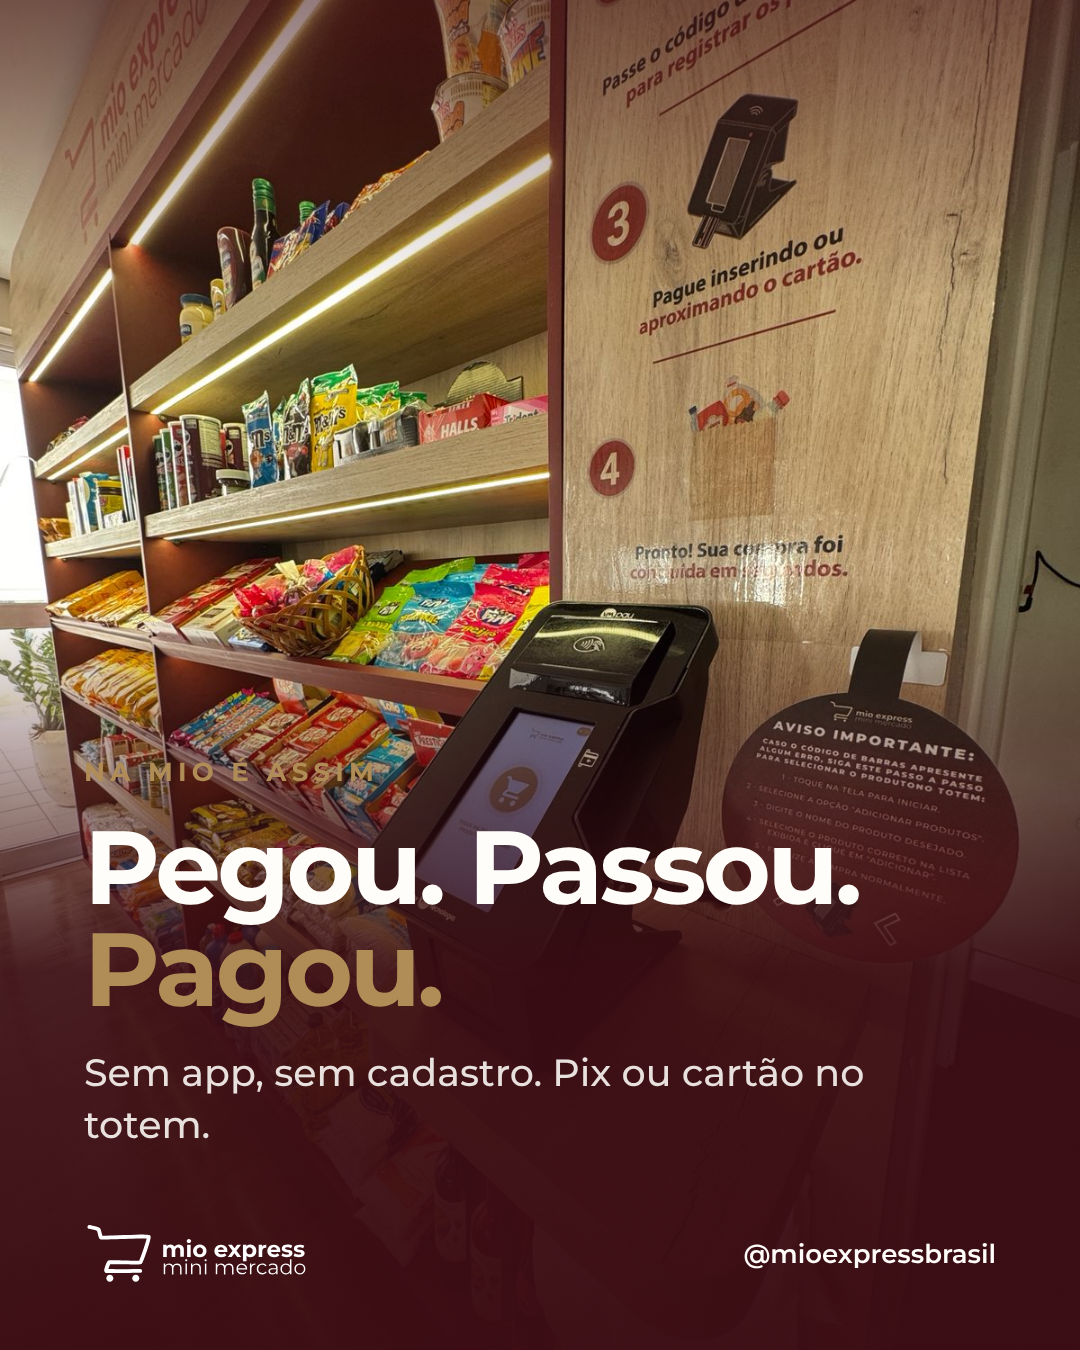
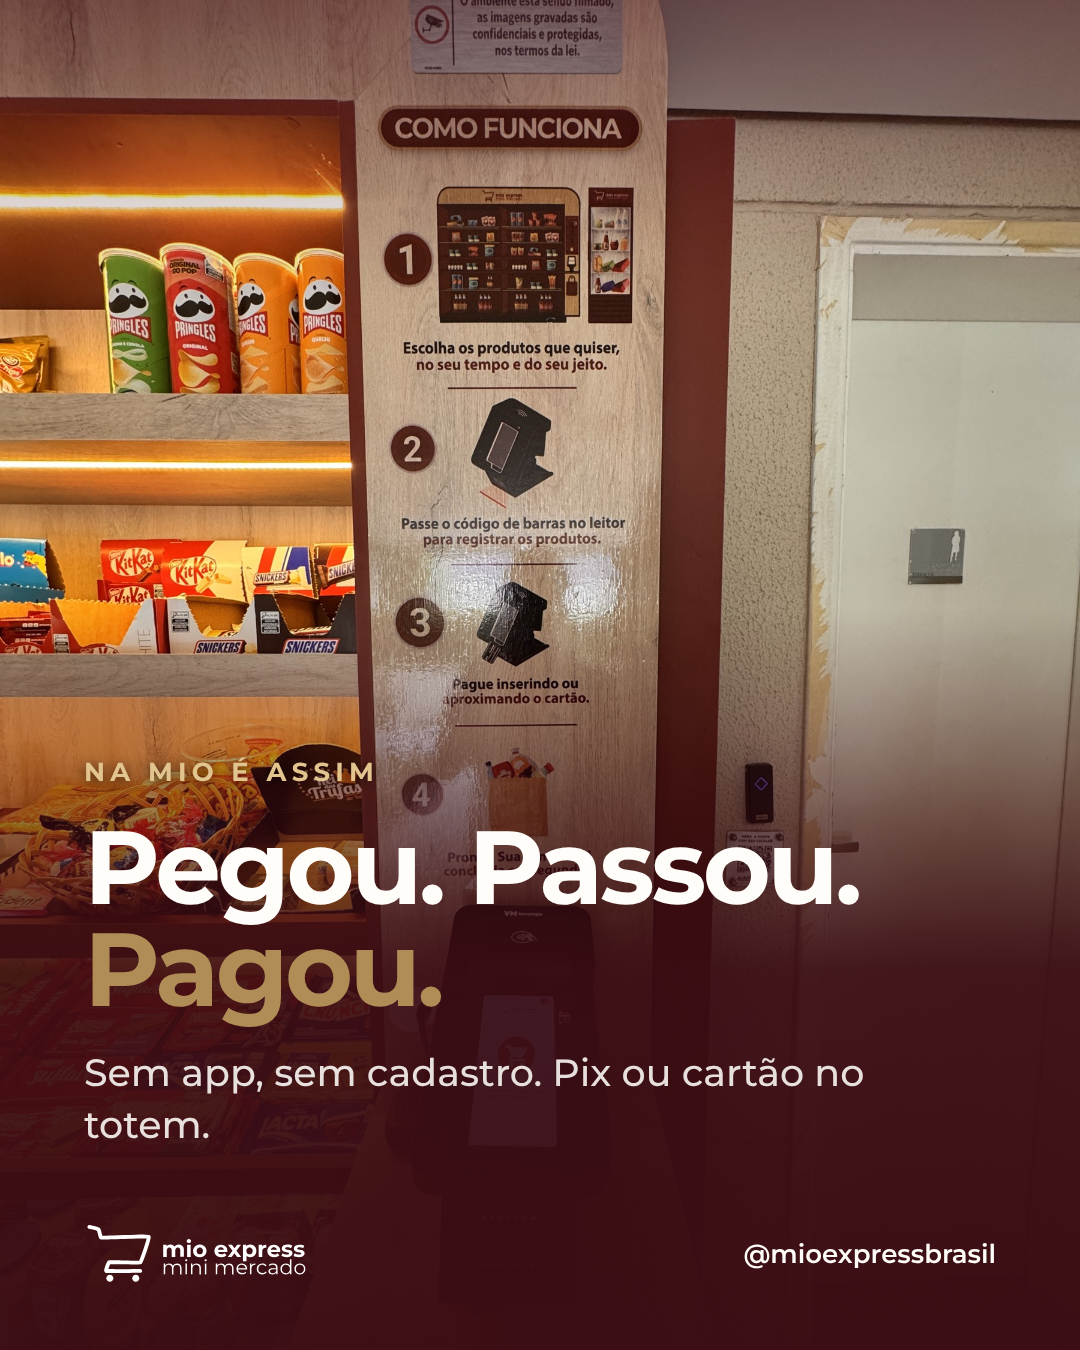
Marketing: concurso churrasco (datas ate 02/11) e testes com fotos reais
Claude-Session: https://claude.ai/code/session_01CwP1brNtxaKT1mUQXiiAjA

diff --git a/marketing/posts/10-teste-foto-real/.slide.html b/marketing/posts/10-teste-foto-real/.slide.html
@@ -9,7 +9,7 @@ body { width: 1080px; height: 1350px; font-family: M, sans-serif; color: #2b1d1a
 .foto.escura::after { background: linear-gradient(180deg, rgba(43,29,26,0) 15%, rgba(43,29,26,.7) 45%, rgba(43,29,26,.95) 100%); }
 .foto.topo::after { background: linear-gradient(180deg, rgba(43,29,26,.75) 0%, rgba(43,29,26,.1) 45%, rgba(43,29,26,.85) 100%); }
 .z { position: relative; z-index: 1; }
-.eyebrow { font-size: 26px; font-weight: 700; letter-spacing: .2em; text-transform: uppercase; color: #b08d57; }
+.eyebrow { font-size: 26px; font-weight: 700; letter-spacing: .2em; text-transform: uppercase; color: #b08d57; text-shadow: 0 2px 12px rgba(0,0,0,.6); }
 .pill { display: inline-block; align-self: flex-start; padding: 12px 24px; border-radius: 99px; background: #7a1f2b; color: #fffdf9; font-size: 24px; font-weight: 700; letter-spacing: .16em; text-transform: uppercase; }
 h1 { font-size: 104px; line-height: .98; font-weight: 700; letter-spacing: -.035em; }
 h2 { font-size: 76px; line-height: 1.02; font-weight: 700; letter-spacing: -.03em; }
@@ -36,8 +36,9 @@ p.lead { font-size: 38px; line-height: 1.35; font-weight: 500; opacity: .88; }
 .tag { position: absolute; top: 84px; right: 84px; z-index: 2; font-size: 24px; font-weight: 700; letter-spacing: .12em; opacity: .8; }
 .ft { position: absolute; inset: 0; background-size: cover; }
 .ft::after { content: ""; position: absolute; inset: 0; background: linear-gradient(180deg, rgba(59,13,20,.97) 0%, rgba(59,13,20,.9) 30%, rgba(59,13,20,.25) 52%, rgba(59,13,20,0) 66%, rgba(59,13,20,.75) 100%); }
+.ft2 { position: absolute; left: 0; right: 0; bottom: 0; height: 820px; background-size: cover; }
+.ft2::after { content: ""; position: absolute; inset: 0; background: linear-gradient(180deg, #3b0d14 0%, rgba(59,13,20,0) 28%, rgba(59,13,20,0) 70%, rgba(59,13,20,.85) 100%); }
 .ft.baixo::after { background: linear-gradient(180deg, rgba(59,13,20,.55) 0%, rgba(59,13,20,0) 22%, rgba(59,13,20,0) 45%, rgba(59,13,20,.92) 72%, rgba(59,13,20,.98) 100%); }
-</style><body><div class="s" style="color:#fffdf9"><div class="ft baixo" style="background-image:url(file:///home/user/mioexpress-site/assets/source/fotos/loja2-totem.jpg);background-position:50% 35%"></div>
-        <div class="z mt-a" style="margin-bottom:110px"><p class="eyebrow">Na Mio é assim</p>
-        <h1 class="mt1">Pegou. Passou.<br><em>Pagou.</em></h1>
-        <p class="lead mt1">Sem app, sem cadastro. Pix ou cartão no totem.</p></div><div class="rodape"><img src="file:///home/user/mioexpress-site/public/brand/logo-white.svg"><span>@mioexpressbrasil</span></div></div></body>
+</style><body><div class="s" style="color:#fffdf9"><div class="ft baixo" style="background-image:url(file:///home/user/mioexpress-site/assets/source/fotos/loja4-ambiente.jpg);background-position:20% 70%"></div>
+        <div class="z mt-a" style="margin-bottom:110px"><p class="eyebrow" style="color:#e2c48f">Calor? A gente resolve</p>
+        <h1 class="mt1">Picolé <em>Los Los</em> a poucos passos de casa.</h1></div><div class="rodape"><img src="file:///home/user/mioexpress-site/public/brand/logo-white.svg"><span>@mioexpressbrasil</span></div></div></body>

diff --git a/marketing/posts/12-concurso-churrasco/patch.py b/marketing/posts/12-concurso-churrasco/patch.py
@@ -1,0 +1,49 @@
+from PIL import Image, ImageDraw, ImageFont
+F='/usr/share/fonts/opentype/inter/Inter-'
+def font(w,s): return ImageFont.truetype(F+w+'.otf',s)
+def fill_interp(im,box,pad=3):
+    x0,y0,x1,y1=box;px=im.load()
+    for x in range(x0,x1):
+        a=px[x,y0-pad];b=px[x,y1+pad]
+        for y in range(y0,y1):
+            t=(y-y0)/(y1-y0);px[x,y]=tuple(round(a[i]+(b[i]-a[i])*t) for i in range(3))
+def brightest(im,box):
+    r=im.crop(box);return max(r.getdata(),key=sum)
+def darkest(im,box):
+    r=im.crop(box);return min(r.getdata(),key=sum)
+def runs(d,x,y,parts,center=False,W=None):
+    # parts: [(text,font,color)]
+    tot=sum(d.textlength(t,font=f) for t,f,c in parts)
+    if center: x=(W-tot)/2
+    for t,f,c in parts:
+        d.text((x,y),t,font=f,fill=c);x+=d.textlength(t,font=f)
+
+# FEED
+im=Image.open('orig-feed.webp').convert('RGB');d=ImageDraw.Draw(im)
+txt=brightest(im,(775,592,1000,660))
+fill_interp(im,(772,590,1004,664))
+d.text((774,596),'Comente',font=font('Bold',24),fill=txt)
+runs(d,774,596,[('Comente',font('Bold',24),txt),(' por que',font('Regular',24),txt)])
+d.text((774,624),'você merece',font=font('Regular',24),fill=txt)
+dk=darkest(im,(695,1090,1005,1150));cream=im.getpixel((690,1100))
+d.rectangle((692,1088,1006,1152),fill=cream)
+d.text((698,1092),'Até 02/11, às 23h59',font=font('Bold',24),fill=dk)
+d.text((698,1126),'Resultado em 03/11 aqui no perfil',font=font('Regular',19),fill=dk)
+ft=brightest(im,(64,1258,1010,1305))
+fill_interp(im,(60,1254,1022,1308))
+f=font('Regular',18)
+d.text((64,1258),'Válido para moradores de São José dos Campos e Jacareí. Imagem ilustrativa. Vencedor escolhido',font=f,fill=ft)
+d.text((64,1284),'pela criatividade da resposta. Esta ação não é patrocinada, endossada ou administrada pelo Instagram.',font=f,fill=ft)
+im.save('01.png')
+
+# STORY
+im=Image.open('orig-story.webp').convert('RGB');d=ImageDraw.Draw(im)
+ft=brightest(im,(230,1595,850,1670))
+fill_interp(im,(150,1592,930,1672))
+f=font('Regular',28)
+runs(d,0,1598,[('Siga · comente · marque 2 vizinhos',f,ft)],center=True,W=1080)
+runs(d,0,1634,[('Até 02/11 · Imagem ilustrativa',f,ft)],center=True,W=1080)
+dk=darkest(im,(320,1720,760,1765));cream=im.getpixel((300,1740))
+d.rectangle((300,1712,780,1772),fill=cream)
+runs(d,0,1724,[('Toque no perfil e participe',font('Bold',30),dk)],center=True,W=1080)
+im.save('story.png')
